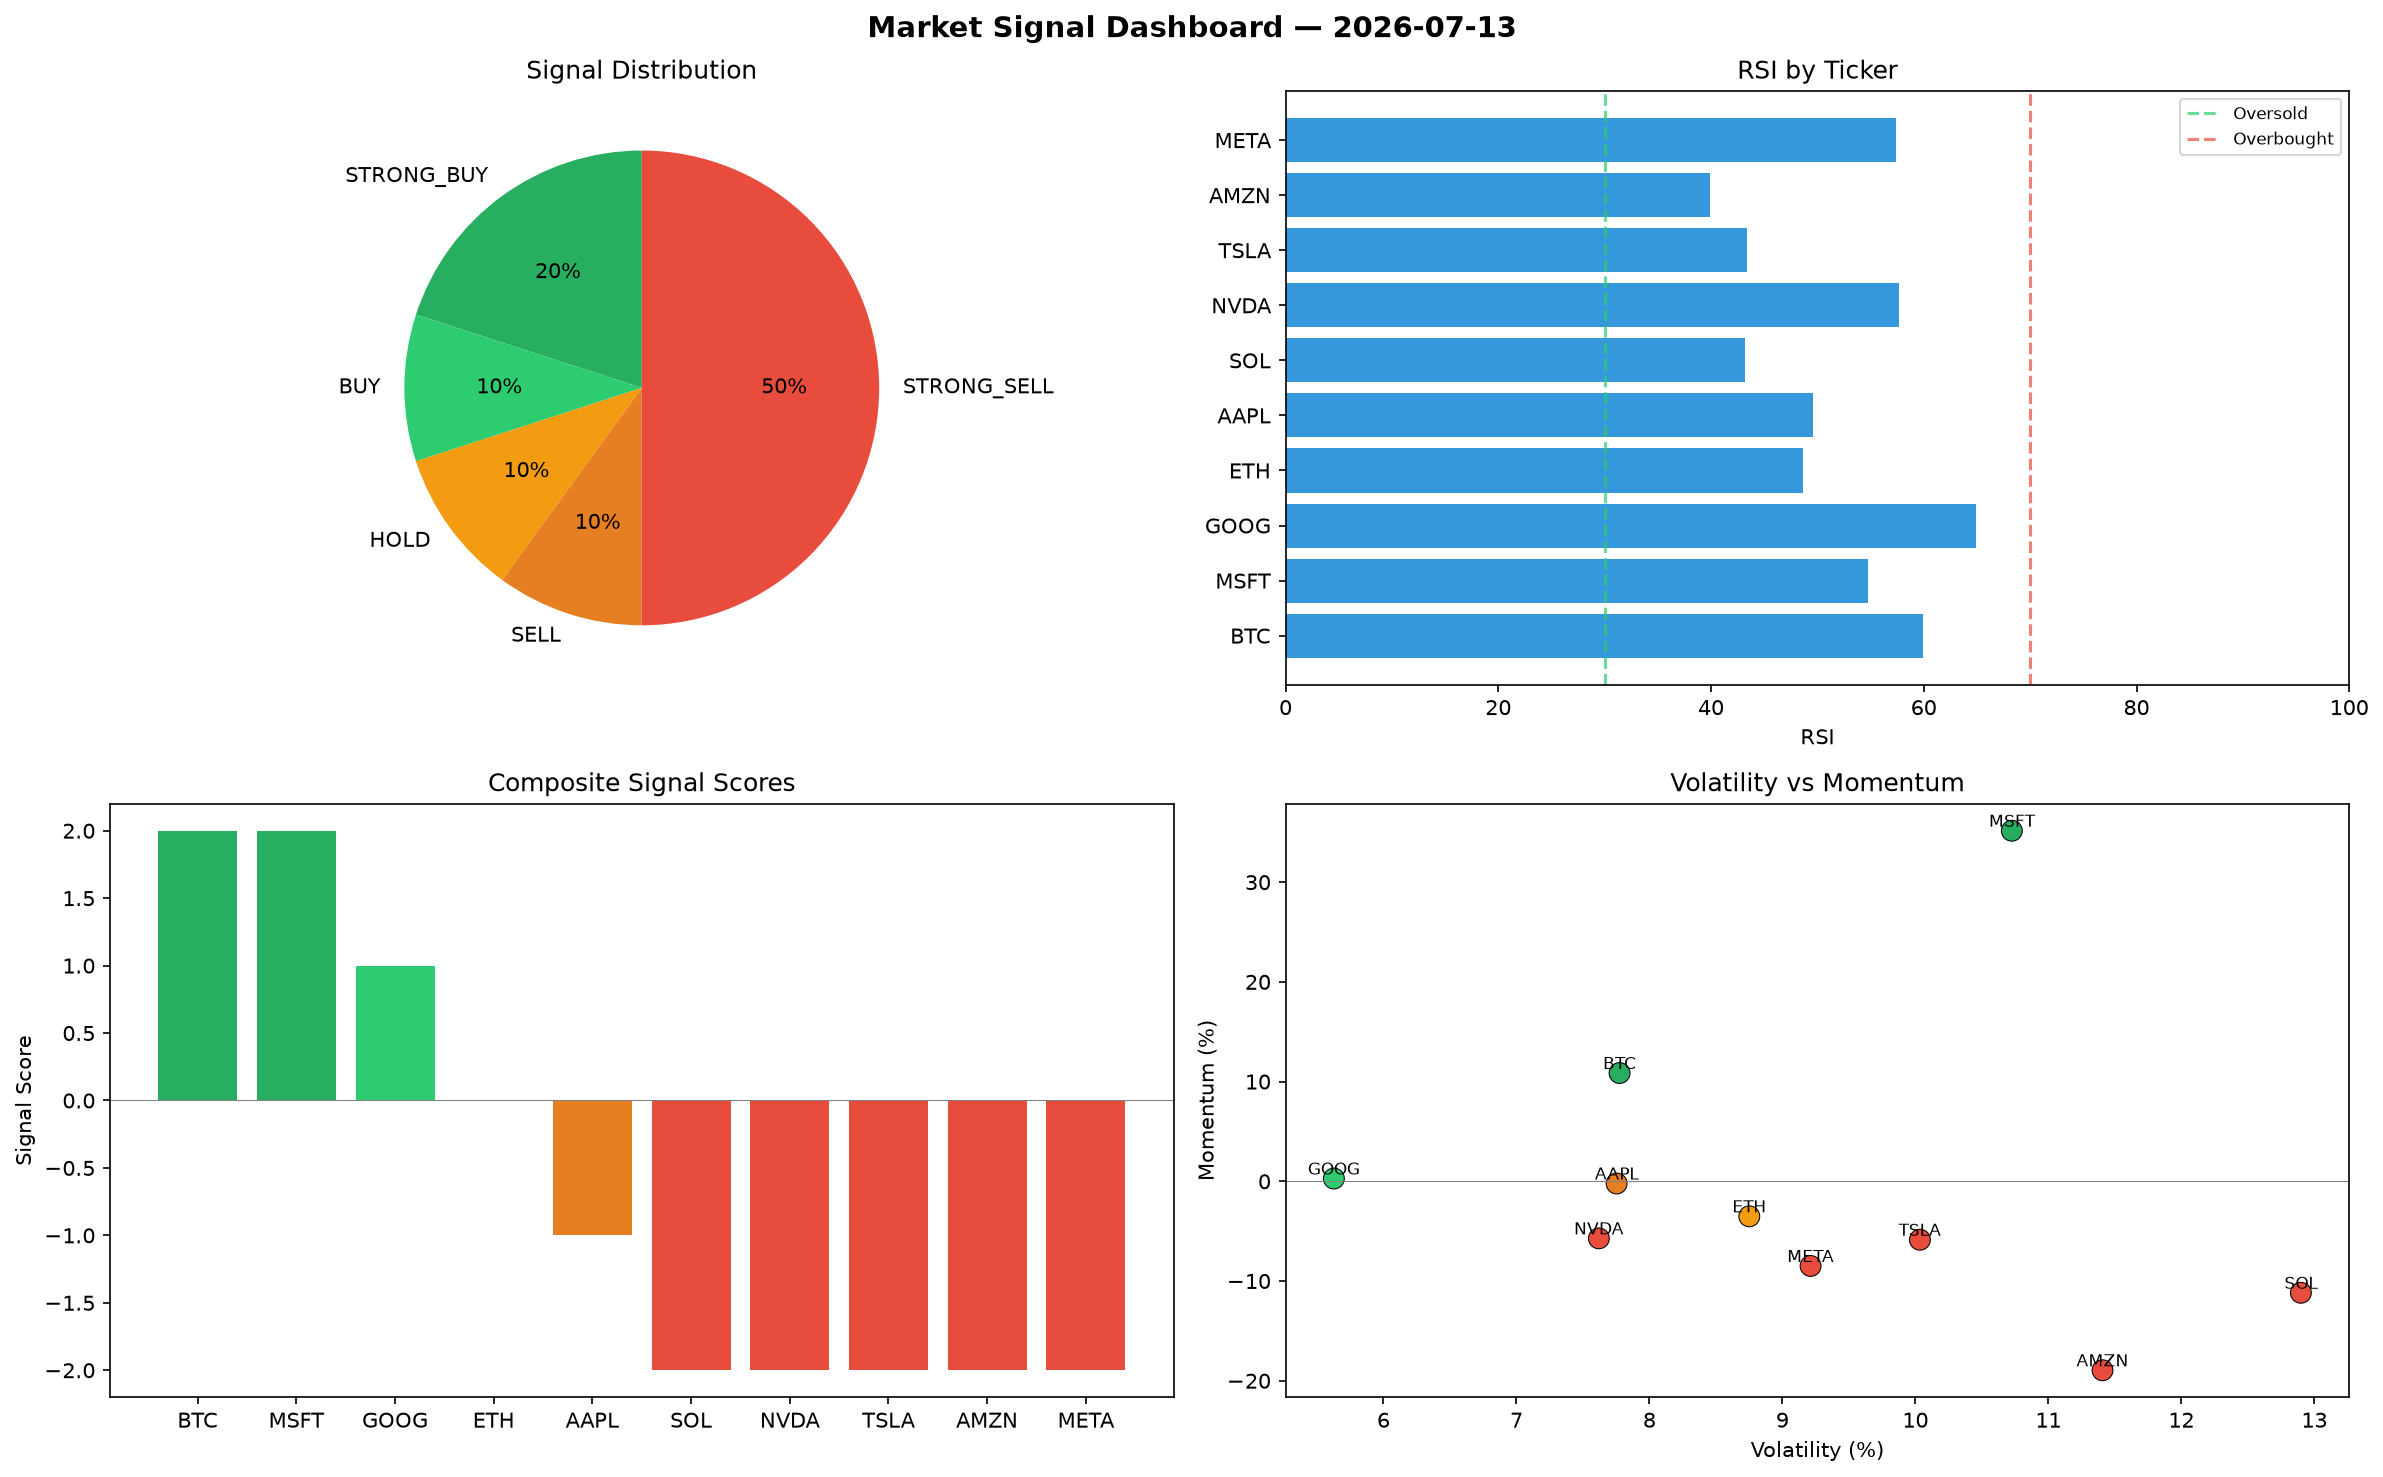
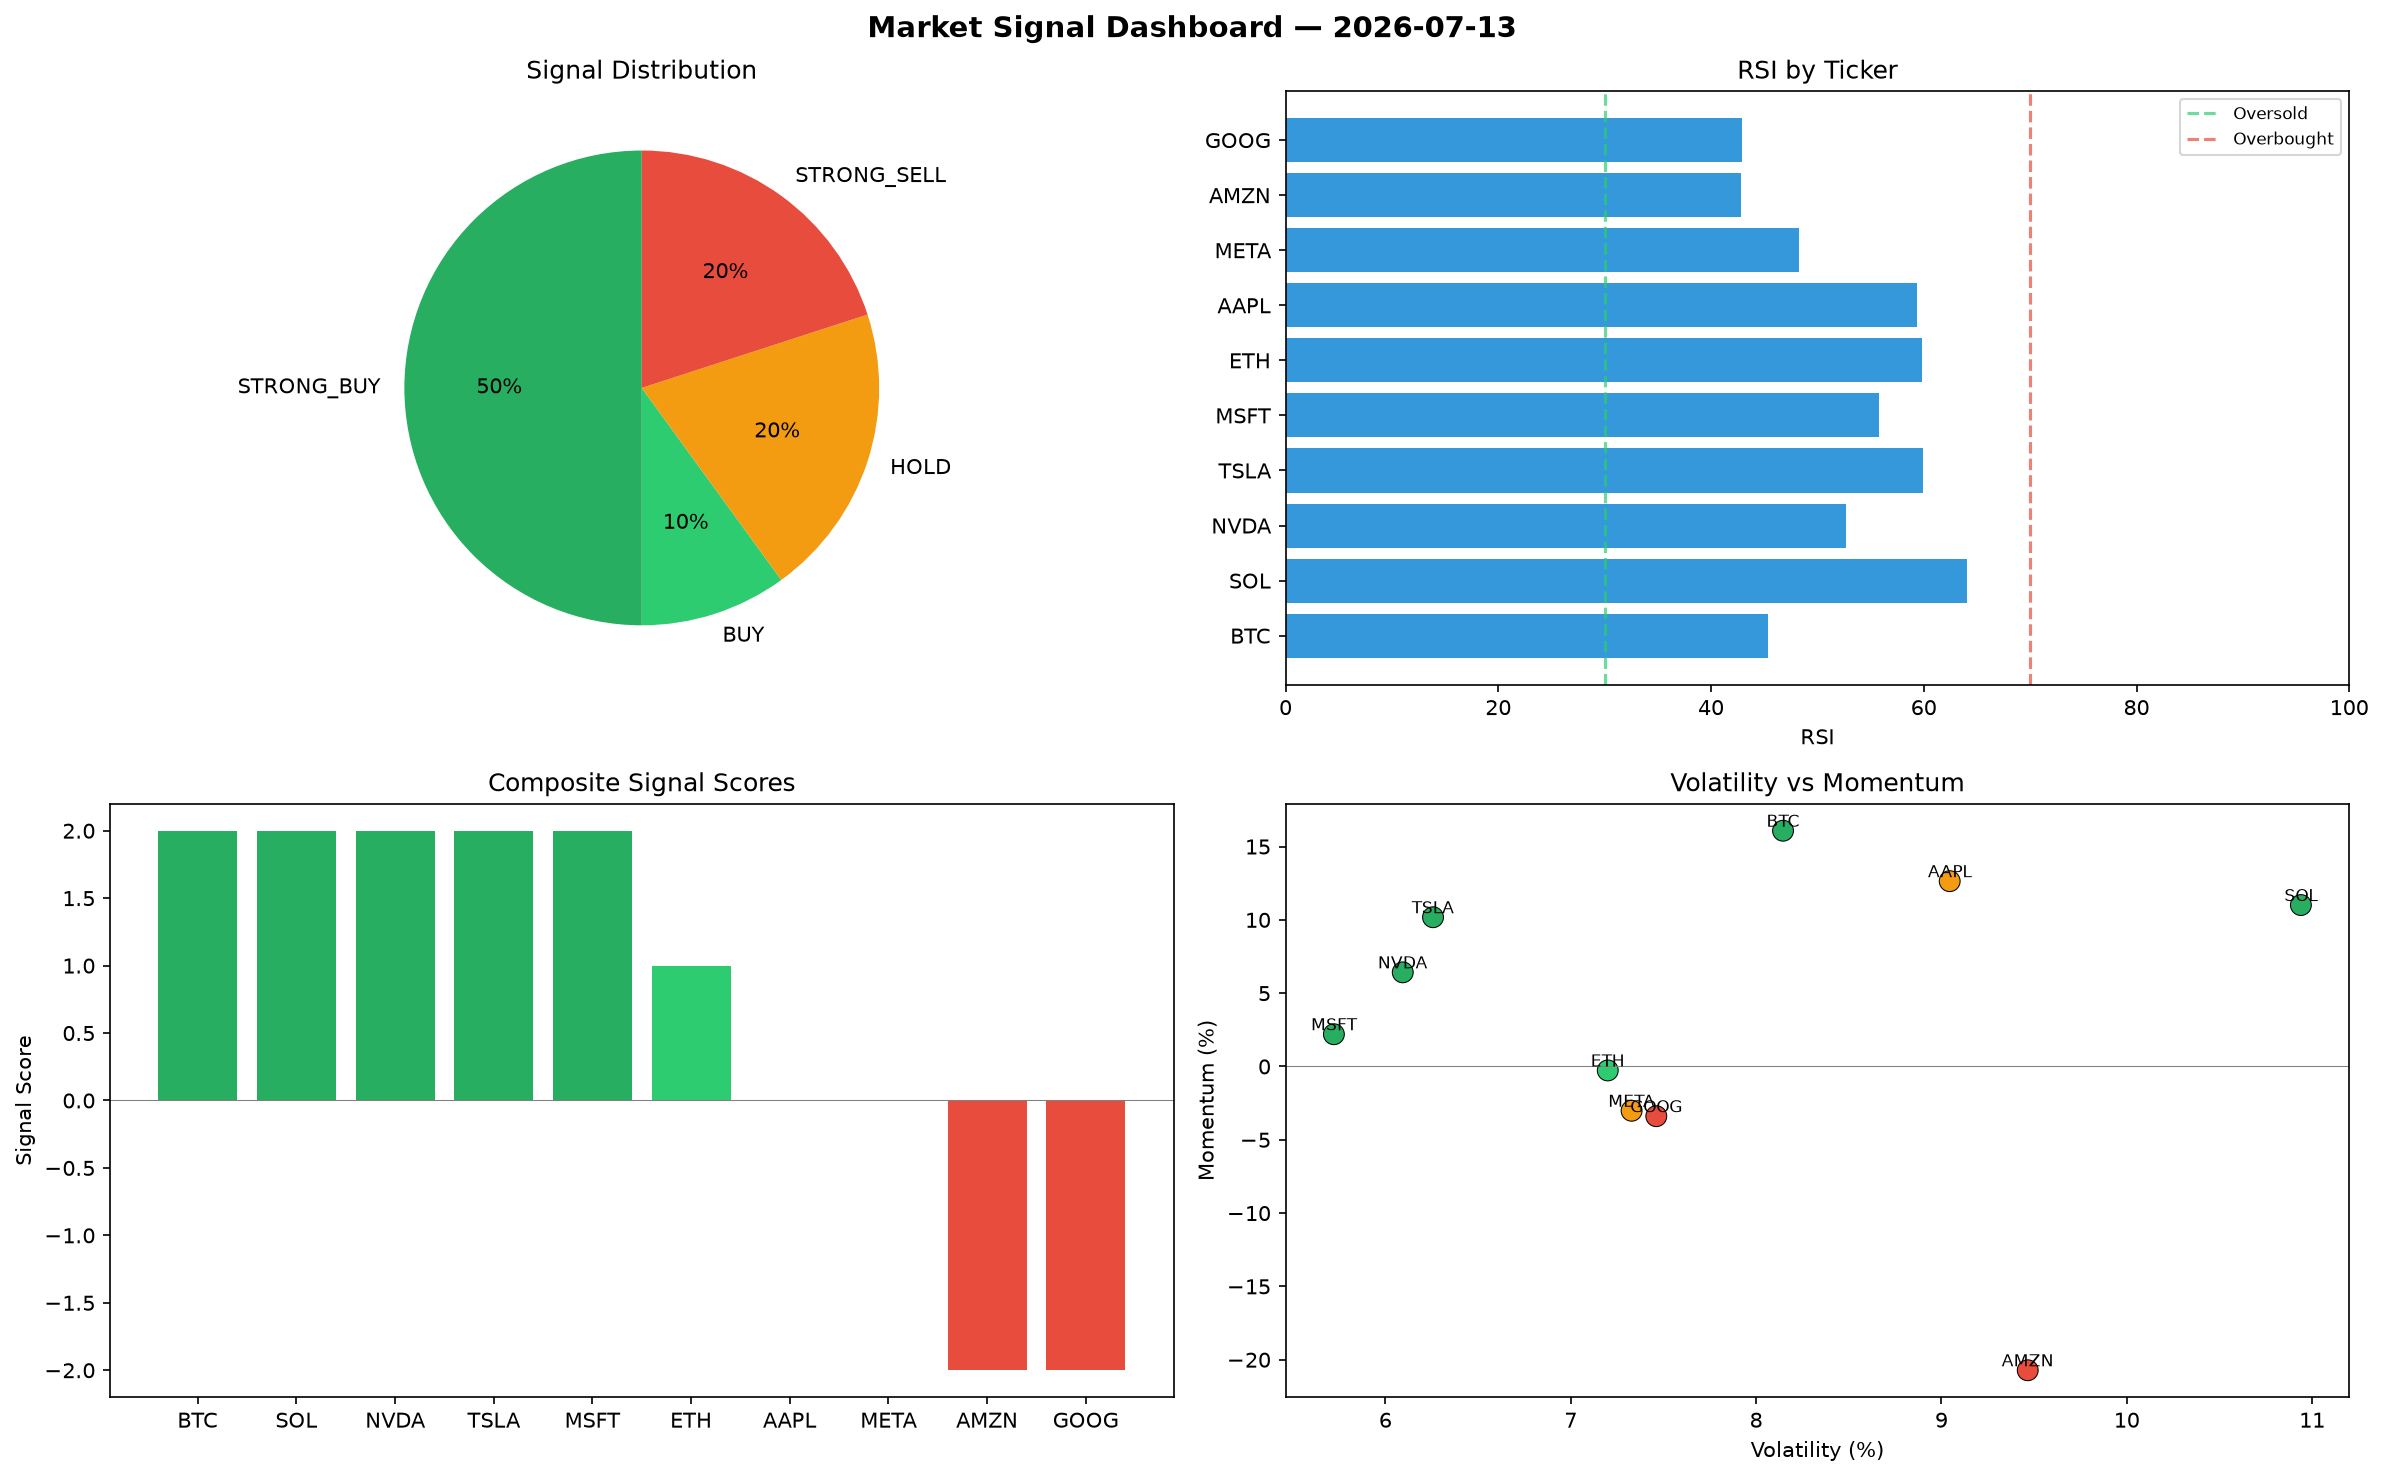
automated-bots: market signals 2026-07-13T16:56

diff --git a/logs/2026-07-13.md b/logs/2026-07-13.md
@@ -1,6 +1,6 @@
 # Market Signal Report — 2026-07-13
 
-**Run ID:** `a4948bc1d4` | **Buy:** 3 | **Sell:** 6 | **Hold:** 1
+**Run ID:** `fd6c88d1a9` | **Buy:** 6 | **Sell:** 2 | **Hold:** 2
 
 ![Dashboard](2026-07-13_dashboard.png)
 
@@ -8,28 +8,28 @@
 
 | Ticker | Price | Signal | Score | RSI | Momentum | Confidence |
 |--------|-------|--------|-------|-----|----------|------------|
-| BTC | $2006.3 | **STRONG_BUY** | 2 | 59.91 | 0.1086 | 0.5 |
-| MSFT | $3632.7 | **STRONG_BUY** | 2 | 54.8 | 0.3516 | 0.5 |
-| GOOG | $973.23 | **BUY** | 1 | 64.91 | 0.0028 | 0.25 |
-| ETH | $2851.41 | **HOLD** | 0 | 48.62 | -0.0351 | 0.0 |
-| AAPL | $1052.57 | **SELL** | -1 | 49.61 | -0.0022 | 0.25 |
-| SOL | $49.11 | **STRONG_SELL** | -2 | 43.19 | -0.1118 | 0.5 |
-| NVDA | $1449.53 | **STRONG_SELL** | -2 | 57.71 | -0.0572 | 0.5 |
-| TSLA | $4283.19 | **STRONG_SELL** | -2 | 43.35 | -0.0586 | 0.5 |
-| AMZN | $3117.42 | **STRONG_SELL** | -2 | 39.9 | -0.1895 | 0.5 |
-| META | $2545.74 | **STRONG_SELL** | -2 | 57.38 | -0.0849 | 0.5 |
+| BTC | $2093.39 | **STRONG_BUY** | 2 | 45.36 | 0.1608 | 0.5 |
+| SOL | $5032.93 | **STRONG_BUY** | 2 | 64.03 | 0.1101 | 0.5 |
+| NVDA | $4236.33 | **STRONG_BUY** | 2 | 52.73 | 0.0642 | 0.5 |
+| TSLA | $2462.65 | **STRONG_BUY** | 2 | 59.96 | 0.1018 | 0.5 |
+| MSFT | $2486.42 | **STRONG_BUY** | 2 | 55.78 | 0.022 | 0.5 |
+| ETH | $4435.24 | **BUY** | 1 | 59.87 | -0.0027 | 0.25 |
+| AAPL | $3956.49 | **HOLD** | 0 | 59.35 | 0.1264 | 0.0 |
+| META | $4909.67 | **HOLD** | 0 | 48.3 | -0.0302 | 0.0 |
+| AMZN | $2063.49 | **STRONG_SELL** | -2 | 42.82 | -0.2072 | 0.5 |
+| GOOG | $815.82 | **STRONG_SELL** | -2 | 42.94 | -0.0339 | 0.5 |
 
 ## Delta vs Yesterday
 
 | Ticker | Today | Yesterday | Price Change | Signal Changed |
 |--------|-------|-----------|-------------|----------------|
-| BTC | STRONG_BUY | STRONG_BUY | 📉 -42.79% | — |
-| MSFT | STRONG_BUY | STRONG_BUY | 📈 59.12% | — |
-| GOOG | BUY | STRONG_BUY | 📉 -73.39% | ⚠ YES |
-| ETH | HOLD | STRONG_BUY | 📉 -41.17% | ⚠ YES |
-| AAPL | SELL | SELL | 📉 -68.03% | — |
-| SOL | STRONG_SELL | STRONG_BUY | 📉 -96.23% | ⚠ YES |
-| NVDA | STRONG_SELL | HOLD | 📉 -49.33% | ⚠ YES |
-| TSLA | STRONG_SELL | STRONG_SELL | 📉 -9.63% | — |
-| AMZN | STRONG_SELL | HOLD | 📉 -6.64% | ⚠ YES |
-| META | STRONG_SELL | HOLD | 📉 -45.77% | ⚠ YES |
+| BTC | STRONG_BUY | STRONG_BUY | 📉 -40.3% | — |
+| SOL | STRONG_BUY | STRONG_BUY | 📈 286.05% | — |
+| NVDA | STRONG_BUY | HOLD | 📈 48.08% | ⚠ YES |
+| TSLA | STRONG_BUY | STRONG_SELL | 📉 -48.04% | ⚠ YES |
+| MSFT | STRONG_BUY | STRONG_BUY | 📈 8.91% | — |
+| ETH | BUY | STRONG_BUY | 📉 -8.49% | ⚠ YES |
+| AAPL | HOLD | SELL | 📈 20.16% | ⚠ YES |
+| META | HOLD | HOLD | 📈 4.59% | — |
+| AMZN | STRONG_SELL | HOLD | 📉 -38.2% | ⚠ YES |
+| GOOG | STRONG_SELL | STRONG_BUY | 📉 -77.69% | ⚠ YES |
